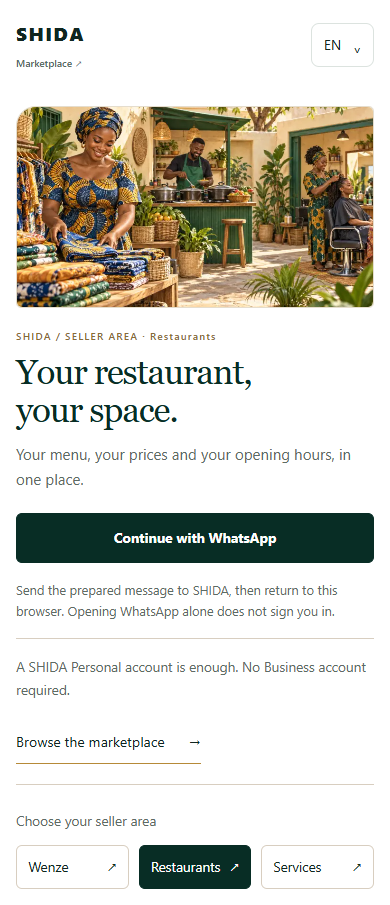
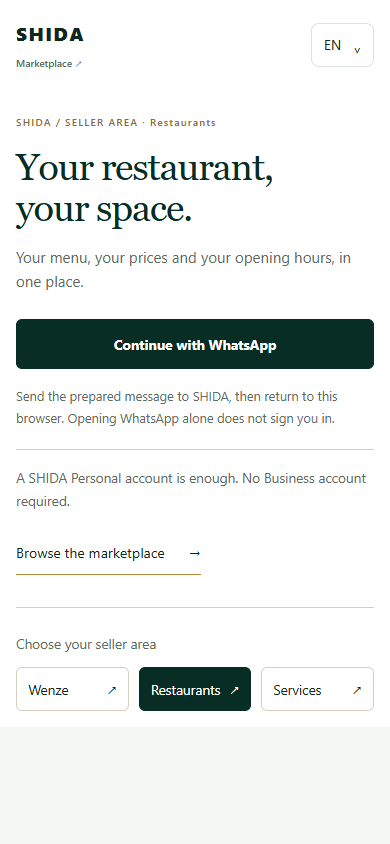
refactor(sellers): simplify marketplace sign-in pages without artwork

diff --git a/app/components/shida/seller-landing.css b/app/components/shida/seller-landing.css
@@ -1,9 +1,7 @@
-.shida-seller-landing{display:grid;grid-template-columns:minmax(0,1.1fr) minmax(0,1fr);gap:2rem clamp(2rem,5vw,5rem);align-items:center;padding:2rem 0 1rem;max-width:1320px;margin:auto}
-.ssl-story,.ssl-entry{min-width:0}.ssl-story{background:#f5f1e7;border:1px solid #e5ddcd;border-radius:32px 8px 8px 8px;overflow:hidden}
-.ssl-art{position:relative;aspect-ratio:3/2;background:#e9eddf}.ssl-art img{object-fit:cover}
-.ssl-caption{padding:1.6rem 1.8rem}.rst .ssl-caption h2{font:500 clamp(1.35rem,2vw,1.8rem)/1.25 Georgia,serif;color:var(--forest);margin:0 0 .6rem}.ssl-caption p{font-size:.9rem;line-height:1.7;color:var(--muted);margin:0;max-width:48ch}
+.shida-seller-landing{width:100%;max-width:560px;margin:0 auto;padding:clamp(2rem,6vh,4rem) 0 2rem}
+.ssl-entry{min-width:0}
 .ssl-eyebrow{font-size:.68rem;line-height:1.6;letter-spacing:.13em;color:#896b37;margin:0 0 1rem;font-weight:600}
-.rst .ssl-entry h1{font:500 clamp(2.3rem,4vw,3.8rem)/1.08 Georgia,serif;letter-spacing:-.035em;margin:0 0 1.2rem;max-width:17ch;overflow-wrap:anywhere}
+.rst .ssl-entry h1{font:500 clamp(2.3rem,4vw,3.8rem)/1.08 Georgia,serif;letter-spacing:-.035em;margin:0 0 1.2rem;max-width:20ch;overflow-wrap:anywhere}
 .ssl-intro{font-size:1.05rem;line-height:1.75;color:var(--muted);margin:0 0 1.5rem}
 .shida-seller-landing .candidate-login{border:0;background:transparent;box-shadow:none;padding:0;margin:0;display:flex;flex-direction:column;gap:1rem}
 .shida-seller-landing .candidate-login h2{position:absolute;width:1px;height:1px;overflow:hidden;clip-path:inset(50%)}
@@ -11,8 +9,7 @@
 .shida-seller-landing .candidate-login button,.shida-seller-landing .candidate-login a{width:100%;min-height:50px;border-radius:6px}
 .ssl-personal{border-top:1px solid var(--line);padding-top:1.2rem;margin:1.5rem 0 1.2rem;color:var(--muted);font-size:.85rem;line-height:1.7}
 .ssl-browse{display:inline-flex;align-items:center;gap:1.5rem;min-height:44px;border-bottom:1px solid var(--gold);font-size:.88rem}
-.rst .ssl-marketplaces{grid-column:1/-1;border-top:1px solid var(--line);padding-top:1.5rem;margin-top:.5rem;display:flex;align-items:center;justify-content:space-between;gap:1rem}
-.ssl-marketplaces p{color:var(--muted);font-size:.85rem;margin:0}.ssl-marketplaces>div{display:flex;flex-wrap:wrap;gap:.6rem}.ssl-marketplaces a{display:flex;align-items:center;justify-content:space-between;gap:1.5rem;min-height:44px;border:1px solid var(--line);border-radius:6px;padding:.65rem 1rem;font-size:.85rem}.ssl-marketplaces a[aria-current=page]{background:var(--forest);border-color:var(--forest);color:#fff}
-@media(max-width:760px){.shida-seller-landing{grid-template-columns:minmax(0,1fr);gap:1.25rem;padding:1rem 0}.ssl-story{border-radius:20px 6px 6px 6px}.ssl-art{aspect-ratio:3/2;max-height:200px}.ssl-art img{object-fit:cover;object-position:center 45%}.ssl-caption{display:none}.rst .ssl-entry h1{font-size:2.2rem;max-width:22ch;margin-bottom:.8rem}.ssl-eyebrow{margin-bottom:.6rem;font-size:.62rem}.ssl-intro{font-size:.94rem;line-height:1.65;margin-bottom:1rem}.ssl-personal{margin-top:1rem;padding-top:1rem}.rst .ssl-marketplaces{display:block;margin:0}.ssl-marketplaces>div{margin-top:.8rem}.ssl-marketplaces a{flex:1;gap:.5rem;padding:.6rem .7rem}.shida-seller-landing .candidate-login>p:first-of-type{font-size:.8rem}}
-
-.ssl-art{width:100%}.rst-seller .shida-seller-landing .candidate-login .button-primary{background:var(--forest);color:#fff;border-color:var(--forest);font-weight:700}
+.rst .ssl-marketplaces{border-top:1px solid var(--line);padding-top:1.5rem;margin-top:.5rem;display:block}
+.ssl-marketplaces p{color:var(--muted);font-size:.85rem;margin:0}.ssl-marketplaces>div{margin-top:.8rem;display:flex;flex-wrap:wrap;gap:.6rem}.ssl-marketplaces a{display:flex;align-items:center;justify-content:space-between;gap:1.5rem;min-height:44px;border:1px solid var(--line);border-radius:6px;padding:.65rem 1rem;font-size:.85rem}.ssl-marketplaces a[aria-current=page]{background:var(--forest);border-color:var(--forest);color:#fff}
+@media(max-width:760px){.shida-seller-landing{padding:1.5rem 0 1rem}.rst .ssl-entry h1{font-size:2.4rem;margin-bottom:1rem}.ssl-eyebrow{font-size:.62rem}.ssl-intro{font-size:.94rem;line-height:1.65;margin-bottom:1.25rem}.ssl-personal{margin-top:1.25rem;padding-top:1rem}.rst .ssl-marketplaces{margin-top:2rem}.ssl-marketplaces a{flex:1;gap:.5rem;padding:.6rem .7rem}.shida-seller-landing .candidate-login>p:first-of-type{font-size:.8rem}}
+.rst-seller .shida-seller-landing .candidate-login .button-primary{background:var(--forest);color:#fff;border-color:var(--forest);font-weight:700}

diff --git a/app/components/shida/seller-landing.tsx b/app/components/shida/seller-landing.tsx
@@ -1,5 +1,4 @@
 "use client";
-import Image from "next/image";
 import Link from "next/link";
 import type {RestaurantLocale} from "../../services/shida/restaurants-client";
 import {PersonalWhatsAppLogin} from "./personal-whatsapp-login";
@@ -7,17 +6,16 @@ import "./seller-landing.css";
 
 type Marketplace = "wenze" | "restaurants" | "services";
 const copy = {
- en:{area:"SHIDA / SELLER AREA",caption:"Local talent. A world of possibilities.",captionHelp:"A space for the people who sell, cook and serve their communities.",browse:"Browse the marketplace",choose:"Choose your seller area",restaurants:"Restaurants",services:"Services",wenze:"Wenze",title:"Your boutique, your space."},
- fr:{area:"SHIDA / ESPACE VENDEUR",caption:"Des talents locaux. De nouvelles possibilités.",captionHelp:"Un espace pour celles et ceux qui vendent, cuisinent et rendent service au quotidien.",browse:"Explorer le marché",choose:"Choisissez votre espace vendeur",restaurants:"Restaurants",services:"Services",wenze:"Wenze",title:"Votre boutique, votre espace."},
- ln:{area:"SHIDA / ESIKA YA KOTEKA",caption:"Mayele ya mboka. Mabaku ya sika.",captionHelp:"Esika mpo na bato oyo batekaka, balambaka mpe basalelaka bato ya mboka.",browse:"Tala zando",choose:"Pona esika na yo ya koteka",restaurants:"Barestaurant",services:"Misala",wenze:"Wenze",title:"Butiki na yo, esika na yo."},
- sw:{area:"SHIDA / ENEO LA MUUZAJI",caption:"Vipaji vya hapa. Fursa mpya.",captionHelp:"Nafasi kwa watu wanaouza, kupika na kuhudumia jamii zao.",browse:"Tembelea soko",choose:"Chagua eneo lako la muuzaji",restaurants:"Mikahawa",services:"Huduma",wenze:"Wenze",title:"Duka lako, nafasi yako."},
+ en:{area:"SHIDA / SELLER AREA",browse:"Browse the marketplace",choose:"Choose your seller area",restaurants:"Restaurants",services:"Services",wenze:"Wenze",title:"Your boutique, your space."},
+ fr:{area:"SHIDA / ESPACE VENDEUR",browse:"Explorer le marché",choose:"Choisissez votre espace vendeur",restaurants:"Restaurants",services:"Services",wenze:"Wenze",title:"Votre boutique, votre espace."},
+ ln:{area:"SHIDA / ESIKA YA KOTEKA",browse:"Tala zando",choose:"Pona esika na yo ya koteka",restaurants:"Barestaurant",services:"Misala",wenze:"Wenze",title:"Butiki na yo, esika na yo."},
+ sw:{area:"SHIDA / ENEO LA MUUZAJI",browse:"Tembelea soko",choose:"Chagua eneo lako la muuzaji",restaurants:"Mikahawa",services:"Huduma",wenze:"Wenze",title:"Duka lako, nafasi yako."},
 };
 
 /** Shared entry presentation only: callers retain session and marketplace authorization. */
 export function SellerLanding({marketplace,locale,design,browseHref,onAuthenticated}:{marketplace:Marketplace;locale:RestaurantLocale;design:{title:string;intro:string;personal:string};browseHref:string;onAuthenticated:()=>void}){
  const t=copy[locale];
  return <div className="shida-seller-landing">
-  <div className="ssl-story"><div className="ssl-art"><Image src="/images/shida-sellers.webp" alt="" fill sizes="(max-width: 760px) calc(100vw - 32px), (max-width: 1200px) 50vw, 650px" preload/></div><div className="ssl-caption"><h2>{t.caption}</h2><p>{t.captionHelp}</p></div></div>
   <div className="ssl-entry"><p className="ssl-eyebrow">{t.area} · {t[marketplace]}</p><h1>{marketplace==="wenze"?t.title:design.title}</h1><p className="ssl-intro">{design.intro}</p><PersonalWhatsAppLogin locale={locale} onAuthenticated={onAuthenticated}/><p className="ssl-personal">{design.personal}</p><Link className="ssl-browse" prefetch={false} href={browseHref}>{t.browse}<span aria-hidden="true">→</span></Link></div>
   <nav className="ssl-marketplaces" aria-label={t.choose}><p>{t.choose}</p><div>{(["wenze","restaurants","services"] as const).map(key=><Link key={key} prefetch={false} aria-current={key===marketplace?"page":undefined} href={`${locale==="en"?"":`/${locale}`}/shida/seller/${key}`}>{t[key]}<span aria-hidden="true">↗</span></Link>)}</div></nav>
  </div>;

diff --git a/tests/browser/seller-landing.browser.ts b/tests/browser/seller-landing.browser.ts
@@ -1,18 +1,17 @@
 import {test,expect} from '@playwright/test';
 import {personalLoginCopy} from '../../app/lib/personal-login-copy';
 
-for(const market of ['wenze','restaurants','services'])for(const locale of ['en','fr','ln','sw'] as const)test(`${market} ${locale}: shared entry, responsive image and existing sign-in`,async({page})=>{
+for(const market of ['wenze','restaurants','services'])for(const locale of ['en','fr','ln','sw'] as const)test(`${market} ${locale}: shared entry, focused layout and existing sign-in`,async({page})=>{
  let starts=0;
  await page.addInitScript(()=>{window.open=()=>null;});
  await page.route('**/api/**',route=>{const req=route.request(),path=new URL(req.url()).pathname.replace(/\/$/,'');if(path.endsWith('/employment/session'))return route.fulfill({status:401,json:{}});if(path.endsWith('/personal/auth/whatsapp')){if(req.method()==='DELETE')return route.fulfill({json:{status:'cancelled'}});starts++;return route.fulfill({status:201,json:{challenge_ref:'DWC_fixture',whatsapp_url:'https://wa.me/243000000000?text=not-sent',expires_at:new Date(Date.now()+300000).toISOString()}});}if(path.endsWith('/DWC_fixture'))return route.fulfill({json:{status:'pending'}});return route.fulfill({status:404,json:{}});});
  await page.setViewportSize({width:1440,height:1000});const prefix=locale==='en'?'':`/${locale}`;await page.goto(`${prefix}/shida/seller/${market}/`);
  await expect(page.locator('.shida-seller-landing')).toBeVisible();await expect(page.locator('.ssl-marketplaces a[aria-current="page"]')).toHaveAttribute('href',`${prefix}/shida/seller/${market}/`);
- await expect.poll(()=>page.locator('.ssl-art img').evaluate((img:HTMLImageElement)=>img.complete&&img.naturalWidth>0)).toBe(true);
+ await expect(page.locator(".shida-seller-landing img")).toHaveCount(0);
  if(locale==='en')await page.screenshot({path:`docs/evidence/seller-landing/${market}-desktop.png`,fullPage:true});
  await page.setViewportSize({width:390,height:844});expect(await page.evaluate(()=>document.documentElement.scrollWidth<=innerWidth)).toBe(true);
- expect(await page.locator('.ssl-art').evaluate(el=>Math.abs(el.getBoundingClientRect().width-el.parentElement!.getBoundingClientRect().width))).toBeLessThan(4);
  await expect(page.locator('footer')).toHaveCount(0);
- const start=page.getByRole('button',{name:personalLoginCopy[locale].start,exact:true});expect((await start.boundingBox())!.y).toBeLessThan(760);
+ const start=page.getByRole('button',{name:personalLoginCopy[locale].start,exact:true});expect((await start.boundingBox())!.y).toBeLessThan(500);
  if(locale==='en'||locale==='fr')await page.screenshot({path:`docs/evidence/seller-landing/${market}-${locale}-mobile.png`,fullPage:true});
  await start.click();await expect(page.getByRole('link',{name:personalLoginCopy[locale].open})).toHaveAttribute('href','https://wa.me/243000000000?text=not-sent');await expect(page.getByText(personalLoginCopy[locale].help,{exact:true})).toBeVisible();expect(starts).toBe(1);
  await page.getByRole('button',{name:personalLoginCopy[locale].cancel,exact:true}).click();await expect(page.getByText(personalLoginCopy[locale].cancelled,{exact:true})).toBeVisible();

diff --git a/docs/shared-seller-landing.md b/docs/shared-seller-landing.md
@@ -2,14 +2,14 @@
 
 Wenze, Restaurants and Services now use `SellerLanding`, the same responsive signed-out entry presentation. These are the three implemented web seller workspaces. The component is reusable when additional marketplace workspaces are introduced; this change does not invent routes for marketplaces without a seller workspace.
 
-The page pairs a seller-community illustration with a marketplace-specific heading, introduction and the existing WhatsApp sign-in component. A secondary navigation links all three seller areas, preserving EN/FR/Lingala/Swahili. Mobile keeps a compact image above the entry action. Localized personal-account guidance and the requirement to send the prepared WhatsApp message remain visible. Session restoration, logout, authorization, registration and authenticated workspace components are unchanged.
+The page uses a focused, image-free column with a marketplace-specific heading, introduction and the existing WhatsApp sign-in component. The content is centered within a 560px maximum width, without a surrounding card. A secondary navigation links all three seller areas, preserving EN/FR/Lingala/Swahili. Mobile puts the heading and entry action first, without artwork pushing sign-in down the page. Localized personal-account guidance and the requirement to send the prepared WhatsApp message remain visible. Session restoration, logout, authorization, registration and authenticated workspace components are unchanged.
 
 Services now uses the same standalone seller chrome as Wenze and Restaurants, without the public shopping header/footer. This also applies inside its authenticated workspace; the management component itself is unchanged.
 
-Design research: [Etsy seller entry](https://www.etsy.com/sell) for seller storytelling with a clear entry action; [Shopify setup guidance](https://help.shopify.com/en/manual/intro-to-shopify/initial-setup) for keeping the setup path focused. The implementation retains Nihiloba cream, green and gold, serif headings and locally relevant imagery.
+Design research: [Etsy seller entry](https://www.etsy.com/sell) for seller storytelling with a clear entry action; [Shopify setup guidance](https://help.shopify.com/en/manual/intro-to-shopify/initial-setup) for keeping the setup path focused. The implementation retains Nihiloba cream, green and gold, serif headings and restrained spacing. Public marketplace imagery is unchanged.
 
-Asset: `public/images/shida-sellers.webp`, optimized 1300 × 867 WebP, created using the built-in imagegen tool. Decorative aspirational artwork, not photos of actual listed sellers. Generation prompt: Warm premium editorial illustration of a cohesive Kinshasa neighborhood courtyard with a woman boutique seller arranging blue and ochre wax-print fabrics, a restaurant cook in a forest-green apron behind a small counter with pots, and a woman hairdresser helping an adult client. Dignified contemporary independent sellers, cream walls, plants and warm sunlight; landscape 3:2 composition with central subjects, no text, logos or UI.
+The previous seller-community illustration is retained as an unused asset; seller entry pages no longer render or preload it.
 
-Validation: production build/TypeScript, focused lint, existing seller/session unit checks, and Chrome checks for all three marketplaces in all four locales. Browser checks exercise image loading, active marketplace link, mobile overflow and sign-in visibility, mocked WhatsApp challenge creation and cancellation. No real WhatsApp message or account mutation is performed. Previews are in `docs/evidence/seller-landing/`.
+Validation: production build/TypeScript, focused lint, existing seller/session unit checks, and Chrome checks for all three marketplaces in all four locales. Browser checks exercise absence of landing imagery, active marketplace link, mobile overflow and sign-in visibility, mocked WhatsApp challenge creation and cancellation. No real WhatsApp message or account mutation is performed. Previews are in `docs/evidence/seller-landing/`.
 
 Release: website-only deployment. No migrations, environment variables or backend changes. Local commit only until push is explicitly authorized.
